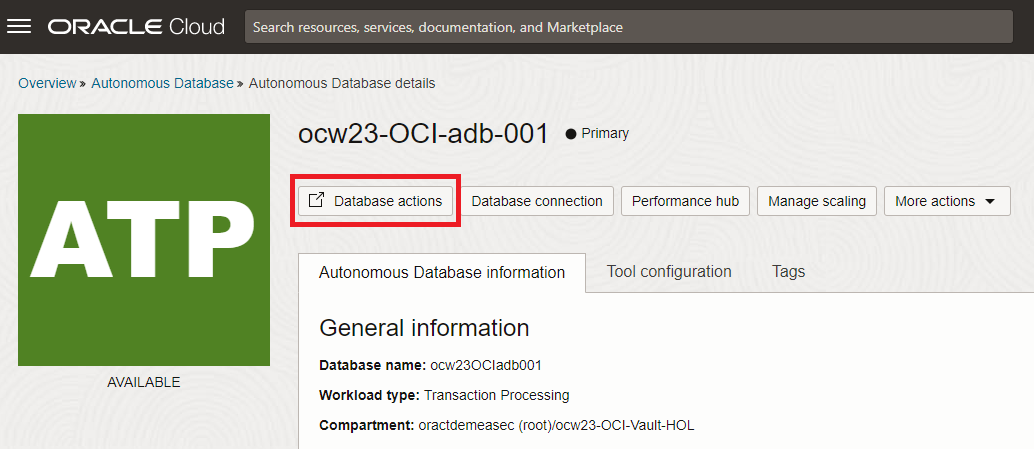
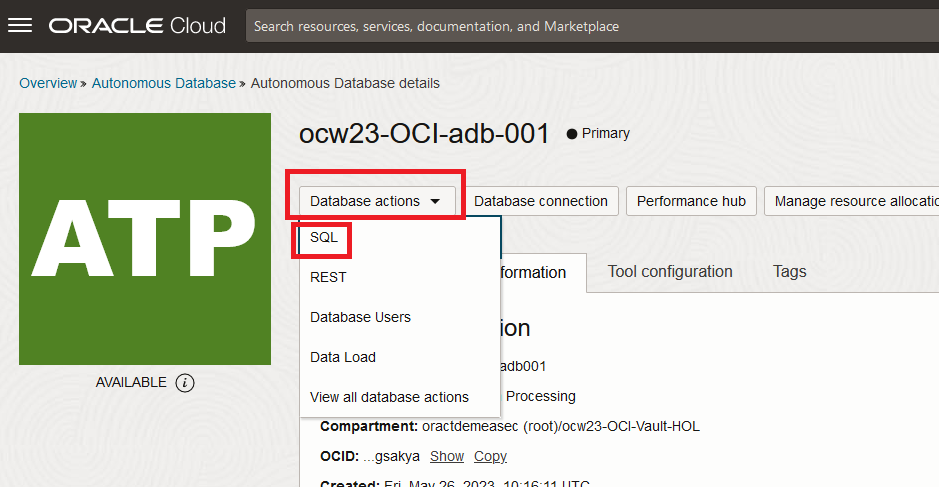
WMS ID 11394 (#131)
* WMS ID # 11394

WMS ID # 11394

* Updates content

Updates content

* Updates

Updates

* Updates

Updates

* Updates

Updates

* Updates Thales

Updates Thales

* Updates

Updates

* Updates

Updates

* Updates

Updates

* Updates

Updates

* Updates

Updates

* Updates

Updates

* Updates

Updates

* Updates

Updates

* Updates

Updates

* Updates

Updates

* Updates

Updates

* Update cloud-login.md

* Changes to Get Started and Lab 1 - Damien

Changes to Get Started and Lab 1 - Damien

* Push from Damien - Lab 1 correction

* Update lab 1

* Update lab 1-2

* Update create-connection.md

* Update create-connection.md

* Update create-connection.md

* Update create-connection.md

* Update create-connection.md

* Update create-connection.md

* Update create-connection.md

* Update create-connection.md

* Update create-connection.md

* Update create-connection.md

* Update create-connection.md

* Update byok-to-oci.md

* Update byok-to-oci.md

* Update byok-to-oci.md

* Update byok-to-oci.md

* Update byok-to-oci.md

* Update picture

Update picture

* Update picture

Update picture

* Updates

Updates

* Update byok-to-oci.md

* Update byok-to-oci.md

* Update byok-to-oci.md

* Create accessing-oci-vault.png

* Create oci-vault.png

* Update byok-to-oci.md

* Update byok-to-oci.md

* Update byok-to-oci.md

* Update byok-to-oci.md

* Update encrypt-resources.md

* Update encrypt-resources.md

* Update encrypt-resources.md

* Update encrypt-resources.md
[…]

Changed region(s): [[0.0, 0.1559, 1.0, 1.0], [0.0, 0.0, 1.0, 0.1247], [0.803, 0.5301, 0.8647, 0.5924]]

diff --git a/oci-kms/encrypt-resources/encrypt-resources.md b/oci-kms/encrypt-resources/encrypt-resources.md
@@ -26,14 +26,21 @@ This lab assumes you have:
 
 ## Task 1: Create a bucket with your own encryption keys
 
-1. You first need to login to your OCI tenant with the **Data\_Manager\_XXX** user where XXX is your student login, please refer to the "Get Started" Lab if required. 
-Let's first create a bucket in OCI Object Storage. To do that, log in to OCI console and navigate through the main hamburger menu to *"Storage > Object Storage > Buckets"*.
+1. Log out from OCI if you haven't already.
+
+  ![Log out](./images/oci-log-out.png "Log out")
+
+2. Log in to your OCI tenant with the **Data\_Manager\_XXX** user where XXX is your student login, please refer to the "Get Started" Lab if required. For example, if you are student number 007:
+
+  ![Data Manager login](./images/data-manager-login.png "Data Manager login")
+
+3. Let's first create a bucket in OCI Object Storage. To do that, log in to OCI console and navigate through the main hamburger menu to *"Storage > Object Storage & Archive Storage > Buckets"*.
  
-    ![Buckets](./images/buckets.png "Buckets")
+  ![Buckets](./images/buckets.png "Buckets")
 
 2. Create a bucket in the compartment "ocw23-OCI-Vault-HOL" by selecting the compartment on the left in the dropdown list, then by clicking the **Create Bucket** button.
     
-    ![Create bucket](./images/create-bucket.png "Create bucket")
+  ![Create bucket](./images/create-bucket.png "Create bucket")
 
 
 3. Name it by following this naming convention: 
@@ -107,8 +114,9 @@ Look for a group called "ocw23ToVault" and click on its name to see all the deta
   ![Dynamic Groups list](./images/dynamic-groups-list.png "Dynamic Groups List")
 
 In the details panel, you can see the rule which was created: 
+
   ```
-  resource.compartment.id = '<your_Compartment_OCID>'
+  resource.compartment.id = 'your_Compartment_OCID'
   ```
   where &lt;your\_Compartment\_OCID&gt; is the OCID of the compartment ocw23-OCI-Vault-HOL.
   This means that any new resource created in the "ocw23-OCI-Vault-HOL" compartment will automatically belong to this group. This is a best practice for simplification as all the new Autonomous Database created will be part of it and benefit from the associated policy. Indeed when you are creating the dynamic group, the OCID for the new database is not yet available.
@@ -146,8 +154,8 @@ This policy configuration is very important. By default, no services can access 
 
 3.	Fill the parameters as follows:
     * Compartment: ocw23-OCI-Vault-HOL
-    *	Display Name: ocw23-OCI-adb-001
-    *	Database Name: ocw23OCIadb001
+    *	Display Name: ocw23-OCI-adb-XXX where XXX is your student number.
+    *	Database Name: ocw23OCIadbXXX where XXX is your student number.
     *	Workload type: Transaction Processing
     *	Deployment type: Serverless
     *	Configure the database: &lt;Leave it as default&gt; 
@@ -169,19 +177,19 @@ This policy configuration is very important. By default, no services can access 
 
 In this task you will load the previous CSV file you loaded into your bucket, into your previously created Autonomous Database.
 
-1. Navigate to your Autonomous Database page in OCI console and go to the Database Actions Launchpad:
+1. Navigate to your Autonomous Database page in OCI console, go to the Database Actions Launchpad and, in the displayed menu, click SQL:
 
   ![Database Actions](./images/db-actions.png "Database Actions")
 
-2. Once there, click to SQL under Development:
+2. You will be prompted to enter credentials for ADMIN user and password you provided during Autonomous Database creation:
 
-  ![SQL Development](./images/sql.png "SQL Development")
+  ![Admin login](./images/admin-login.png "Admin login")
 
 3. Web SQL Development UI is open and now you can load data into your database by clicking to **Data Load** on the top corner right:
 
   ![Click Data Load](./images/data-load.png "Click Data Load")
 
-4. Drag and drop the file into the prompted window and click the button **Run all**, which is shown as the green button icon on the top-left corner:
+4. Drag and drop the previously downloaded "ocw23-sample-file.csv" file into the prompted window and click the button **Run all**, which is shown as the green button icon on the top-left corner:
 
   ![File loading](./images/drag-and-drop.png "File loading")
 

diff --git a/oci-kms/create-connection/create-connection.md b/oci-kms/create-connection/create-connection.md
@@ -84,11 +84,11 @@ Copy all the information on notepad as it will be used to create connection betw
 
 In this task you will create a connection from your CipherTrust Manager (CTM) tenant which is in Thales Cloud, outside of Oracle Cloud Infrastructure, to the Vault you just created in OCI. 
 
-1. To access CipherTrust Manager as a Service you will need to create the URL to access your own private tenant. To do this, you need to copy and paste this URL: "https://us1.ciphertrust.dpondemand.io/?tenant=oracle-OracleCTM" in your browser address bar and add your student number at the end of the URL. For example, if your student number is 001, the complete URL to your own private CTM tenant will be: "https://us1.ciphertrust.dpondemand.io/?tenant=oracle-OracleCTM001". 
+1. To access CipherTrust Manager as a Service you will need to create the URL to access your own private tenant. To do this, you need to copy and paste this URL: **"https://us1.ciphertrust.dpondemand.io/?tenant=oracle-OracleCTM"** in your browser address bar and replace **XXX** with your student number. For example, if your student number is 001, the complete URL to your own private CTM tenant will be: **"https://us1.ciphertrust.dpondemand.io/?tenant=oracle-OracleCTM001"**. 
 
     ![URL creation in address bar](images/ctm-address-bar.png "URL creation in address bar")
 
-    Once you access your login window, please login using your "Secops_XXX" user, with the password which has been provided to you. If you can't locate this information, please contact one of the trainer to assist you. 
+    Once you access your login window, please login using your **"Secops_XXX"** user, with the password which has been provided to you. If you can't locate this information, please contact one of the trainer to assist you. 
 
     ![Log in to CipherTrust Manager](images/ctm-login.png "Log in to CipherTrust Manager")
 
@@ -125,7 +125,7 @@ In this task you will create a connection from your CipherTrust Manager (CTM) te
     * Key File: Private key file for the OCI connection in the PEM format. Either upload the key file or paste the file content.
     * File Upload: Select and click Upload Private Key to upload the key file from your machine.
     * Text: Select and paste the certificate content in the text field.
-    * Passphrase: Passphrase of the encrypted key file.
+    * Passphrase: Leave it blank if you didn't set a passphrase for the encrypted key file.
     
 
     ![Connection details](images/connection-details.png "Connection details")

diff --git a/oci-kms/simulation-block-access/simulation-block-access.md b/oci-kms/simulation-block-access/simulation-block-access.md
@@ -24,11 +24,12 @@ In this lab, you will:
 ## Task 1: Disable keys in CipherTrust Manager
 
 1. Login to the CipherTrust Manager console.
-    If you lost the link: to access CipherTrust Manager as a Service you will need to create the URL to access your own private tenant. To do this, you need to copy and paste this URL: "https://us1.ciphertrust.dpondemand.io/?tenant=oracle-OracleCTM" in your browser address bar and add your student number at the end of the URL. For example, if your student number is 001, the complete URL to your own private CTM tenant will be: "https://us1.ciphertrust.dpondemand.io/?tenant=oracle-OracleCTM001". 
+
+    If you lost the link: to access CipherTrust Manager as a Service you will need to create the URL to access your own private tenant. To do this, you need to copy and paste this URL: **"https://us1.ciphertrust.dpondemand.io/?tenant=oracle-OracleCTM"** in your browser address bar and replace **XXX** with your student number. For example, if your student number is 001, the complete URL to your own private CTM tenant will be: **"https://us1.ciphertrust.dpondemand.io/?tenant=oracle-OracleCTM001"**. 
 
     ![URL creation in address bar](images/ctm-address-bar.png "URL creation in address bar")
 
-    Once you access your login window, please login using your "Secops_XXX" user, with the password which has been provided to you. If you can't locate this information, please contact one of the trainer to assist you.
+    Once you access your login window, please login using your **"Secops_XXX"** user, with the password which has been provided to you. If you can't locate this information, please contact one of the trainer to assist you.
 
     ![Log in to CipherTrust Manager](images/ctm-login.png "Log in to CipherTrust Manager")
 

diff --git a/oci-kms/byok-to-oci/byok-to-oci.md b/oci-kms/byok-to-oci/byok-to-oci.md
@@ -78,7 +78,7 @@ This lab assumes you have:
 4. In the third step "Configure oracle Key", you need to provide the following information:
     * **Oracle Key Name** - Enter "ocw23-AES-256-XXX" where "XXX" is your student number.
     * **Oracle Compartment** - Select "ocw23-OCI-Vault-HOL" from the dropdown list.
-    * **Vault** - Select "ocw23-OCI-XXX" where "XXX" is your student number from the dropdown list.
+    * **Vault** - Select "ocw23-OCI-Vault-XXX" where "XXX" is your student number from the dropdown list.
     Make sure the radio button "HSM" is selected and clieck "Next". 
 
     ![Add AES key](images/key-compartment.png "Add AES key")
